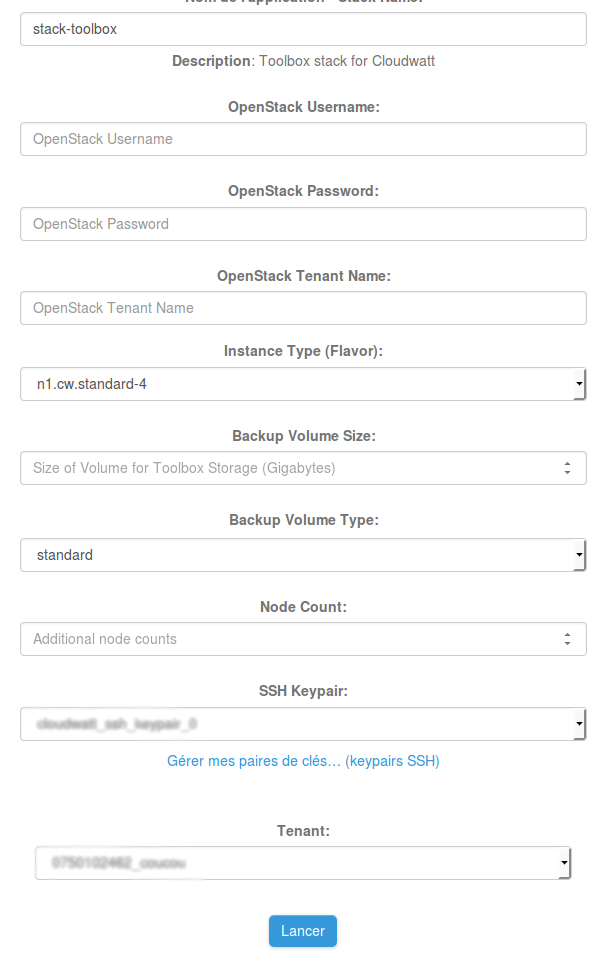
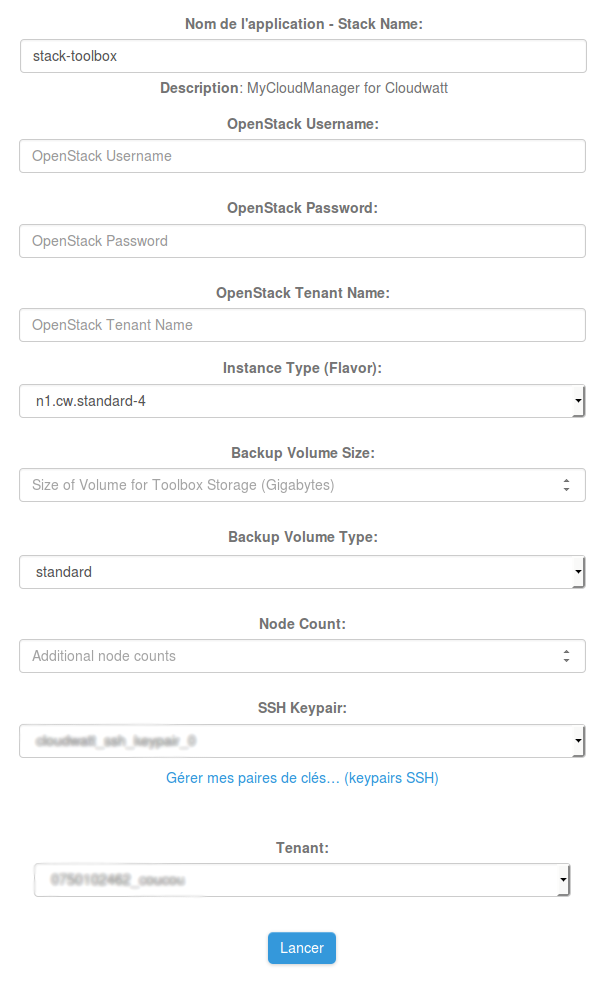
MAJ screen New Interface

diff --git a/bundle-toolbox/README-EN.md b/bundle-toolbox/README-EN.md
@@ -226,7 +226,7 @@ Once the script is applied to the selected instance it should appear in the menu
 ![appdisable](img/appdisable.png)
 
 
-**Trick** If you want to create an instance via the console horizon Cloudwatt and declare **directly** in your MyCloudManager, you should to select - in step 3 of the instance launch wizard - MyCloudManager network and - in step 4 - you can paste the command under the setence "If you want to register the instance automatically during the creation process, put this in the startup script within the horizon console :" command in the Custom Script field.
+**Trick** If you want to create an instance via the console horizon Cloudwatt and declare **directly** in your MyCloudManager, you should to select - in step 3 of the instance launch wizard - MyCloudManager network and the Security Group and - in step 4 - you can paste the command under the setence "If you want to register the instance automatically during the creation process, put this in the startup script within the horizon console :" command in the Custom Script field.
 
 ![attachnetwork](img/attachnetwork.png)
 
@@ -276,8 +276,10 @@ To go further, here are some helpful links :
 
 
 ### Job Scheduler
-We have chosen to use Rundeck.
-The Rundeck application will allow you **to schedule and organize all jobs** that you want to deploy consistently on all of your holding via its web interface. In our case we wanted to give you the opportunity to set up a script to back up your servers as we saw in the *bundle* Duplicity (next version of MyCloudManager).
+We have chosen to use *Rundeck*.
+The Rundeck application will allow you **to schedule and organize all jobs** that you want to deploy consistently on all of your holding via its web interface.
+
+In next version of MyCloudManager, we will give you the possibility to backup your servers like as we saw in the *bundle* Duplicity.
 
 To go further, here are some helpful links :
 * http://rundeck.org/
@@ -285,21 +287,16 @@ To go further, here are some helpful links :
 * http://dev.cloudwatt.com/fr/blog/5-minutes-stacks-episode-vingt-trois-duplicity.html
 
 
-### Mirror ClamAV - Antivirus
-This application is a Ngnix server. A *CRON* script will run every day to fetch the latest **virus** definition distributed by ClamAV and then the recovered packet will be exposed to your instances via Ngnix. Allowing you to have customers **ClamAV** up to date without access internet.
+### Mirror Antivirus
+
+This application is a Ngnix server. A *CRON* script will run every day to pick up the latest **virus** definition distributed by *ClamAV*. The recovered packet will be exposed to your instances via Ngnix allowing you to have customers **ClamAV** update without your instances not necessarily have access to the internet.
 
 To go further, here are some helpful links :
 * https://www.clamav.net/documents/private-local-mirrors
 * https://github.com/vrtadmin/clamav-faq/blob/master/mirrors/MirrorHowto.md
 
 
-### APT mirror
-To meet this need we have chosen to use *Aptly*.
-This is a **APT package manager**. It allows you to mirror a web APT directory to distribute it to all your machines into which they do not necessarily  access to internet via a Nginx server.
 
-To go further, here are some helpful links :
-* https://www.aptly.info/
-* http://korben.info/aptly-loutil-ultime-pour-gerer-vos-depots-debian.html/
 
 
 ### Software repository
@@ -347,7 +344,9 @@ Although it's architecture is based on Docker containers and orchestrator Kubern
 * Make sure your VPN connection is active
 * Otherwise restart your VPN
 * Refresh the page MyCloudManager by refreshing your browser ( F5 )
-* If your toolbox is active , you are connected to the VPN, but you do not get access to the http://manager.default.svc.mycloudmanager try with http://10.0.1.254:3000. If this URL works is that the DNS has not been changed on your computer, you must then either disable your various Antivirus or firewall that could possibly block this connection. The DNS are located in 10.0.2.2.
+* If your toolbox is active , you are connected to the VPN, but you do not get access to the http://manager.default.svc.mycloudmanager try with http://10.0.1.254:30000. If this URL works is that the DNS has not been changed on your computer, you must then either disable your various Antivirus or firewall that could possibly block this connection. The DNS are located in 10.0.2.2.
+* If your new instances do not appear in MyCloudManager, check you if you have include the security group of your stack MyCloudManager in your instance. Be carrefull of networks aspects: your instance have to communicate with your MyCloudManager to be instrumentalised.
+
 
 ## So watt ?
 

diff --git a/bundle-toolbox/README.md b/bundle-toolbox/README.md
@@ -228,7 +228,7 @@ Une fois le script appliqué sur l'instance choisie, elle apparait dans le menu 
 ![launchinstance](img/launchinstance.png)
 
 
-#### 3. Lancer les services souhaitées sur l'instance
+#### 3. Lancer les services souhaités sur l'instance
 
 Afin de vous aider au maximum, nous avons créé des playbooks Ansible permettant d'installer et configurer automatiquement les agents des différentes applications sur vos instances.
 
@@ -335,7 +335,7 @@ Bien que son architecture soit basée sur des conteneurs Docker et l'orchestrate
 * Assurez vous que votre connexion VPN est active
 * Sinon redemarrez votre VPN
 * Actualisez la page MyCloudManager en rafraichissant votre browser (touche F5)
-* Si votre MyCloudManager est bien actif, que vous êtes bien connecté au VPN, mais que vous n'arrivez pas à acceder à l'adresse http://manager.default.svc.mycloudmanager, essayez avec l'adresse http://10.0.1.254:3000. Si cette URL fonctionne c'est que le DNS n'a pas été modifié sur votre poste, il faut alors soit désactiver vos divers par-feu ou Antivirus qui pourraientt eventuellement bloquer cette connexion, soit renseigner à la main l'adresse du DNS qui est 10.0.2.2.
+* Si votre MyCloudManager est bien actif, que vous êtes bien connecté au VPN, mais que vous n'arrivez pas à acceder à l'adresse http://manager.default.svc.mycloudmanager, essayez avec l'adresse http://10.0.1.254:30000. Si cette URL fonctionne c'est que le DNS n'a pas été modifié sur votre poste, il faut alors soit désactiver vos divers par-feu ou Antivirus qui pourraientt eventuellement bloquer cette connexion, soit renseigner à la main l'adresse du DNS qui est 10.0.2.2.
 * Si vos nouvelles instances n'apparaissent pas dans MyCloudManager, vérifier pour vous avez bien inclut le security group de votre stack MyCloudManager dans votre instance. Attention aussi aux aspects réseaux: vos instances doivent pouvoir communiquer avec votre MyCloudManager pour être instrumentaliser.
 
 
